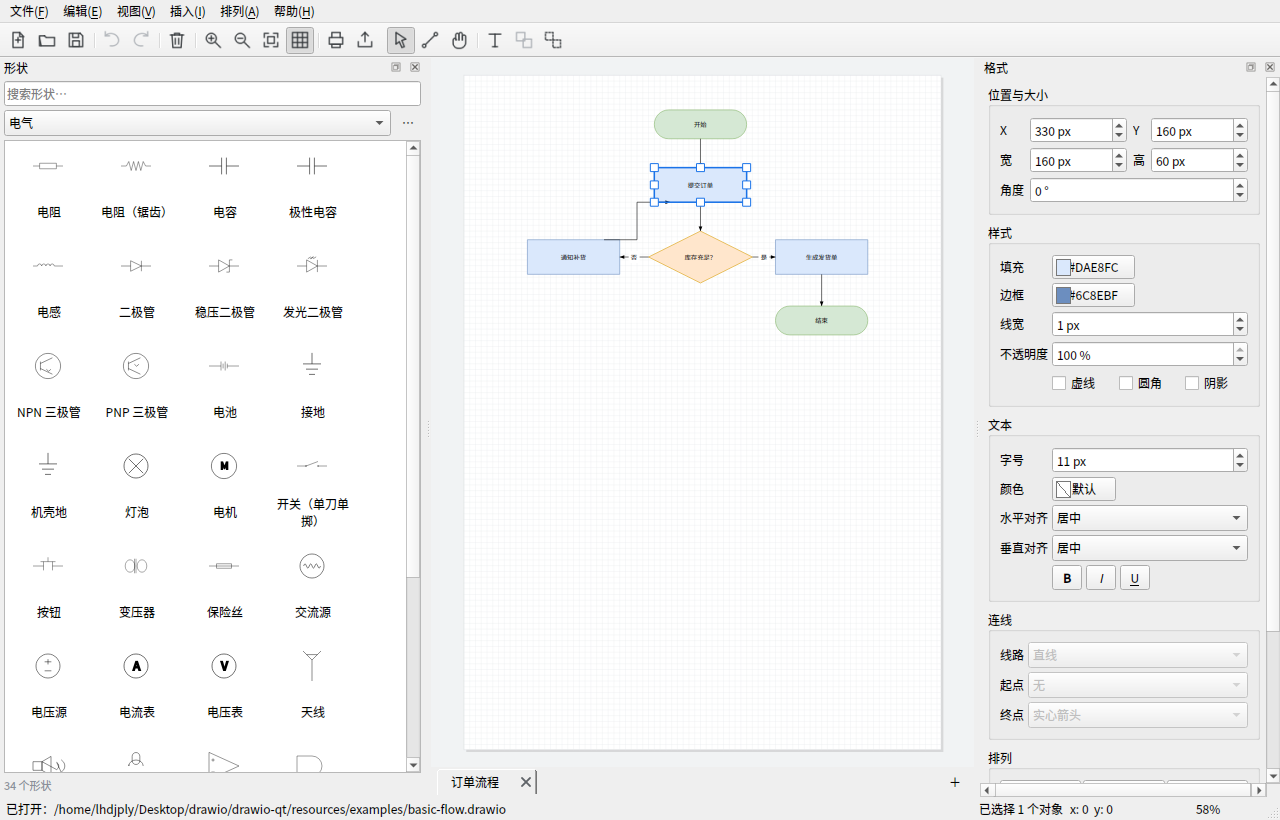
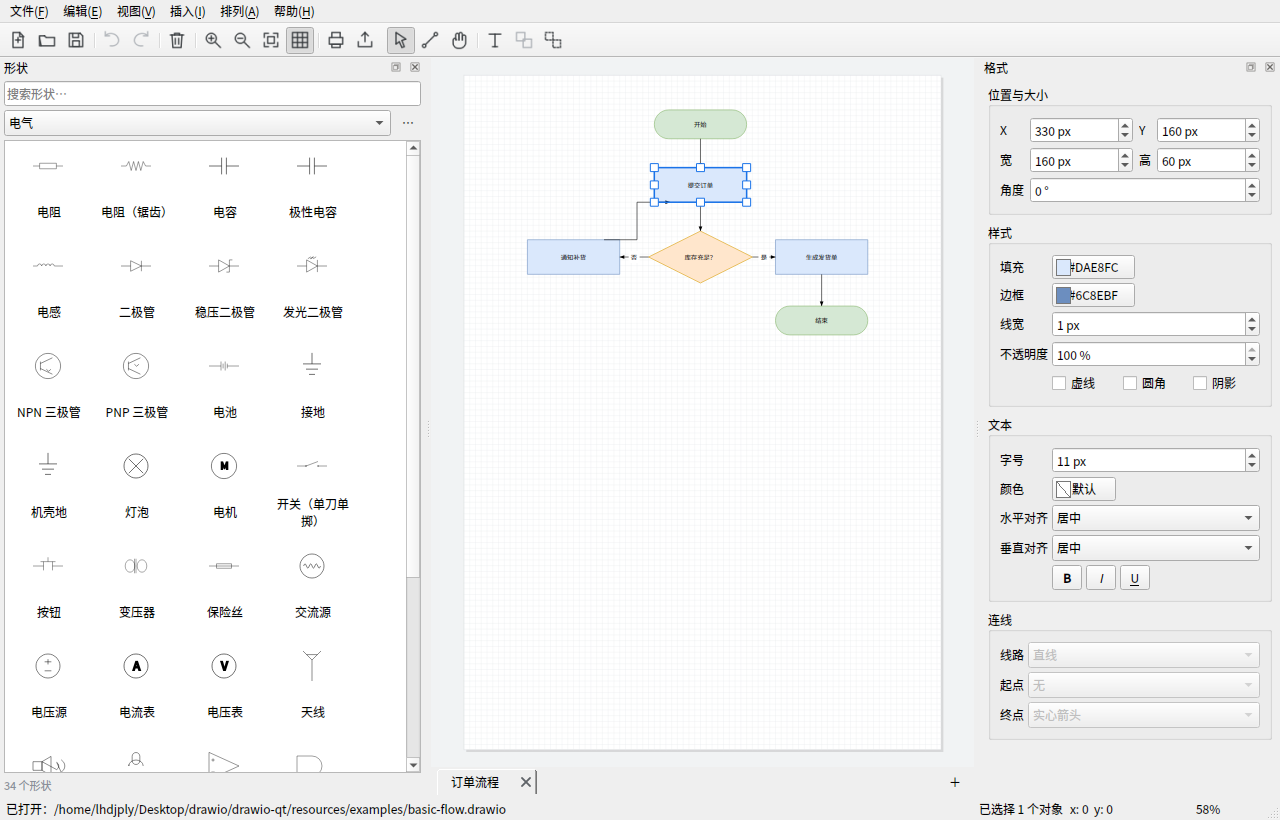
refactor: 将排列功能从右侧面板移到“排列”菜单
- 移除格式面板底部的“排列”分组（对齐、分布、同尺寸、层级、组合）
- 菜单栏“排列”新增“对齐”和“布局”子菜单：
  对齐（左/水平居中/右/上/垂直居中/下）、布局（水平/垂直分布、
  相同宽度/高度/大小），保留原有层级操作
- 选择少于两个对象时自动禁用对齐与布局菜单项
- 新增菜单结构与面板移除的 UI 测试

diff --git a/src/ui/FormatPanel.cpp b/src/ui/FormatPanel.cpp
@@ -15,7 +15,6 @@
 #include <QLabel>
 #include <QMenu>
 #include <QPainter>
-#include <QPushButton>
 #include <QScrollArea>
 #include <QSignalBlocker>
 #include <QSpinBox>
@@ -38,14 +37,6 @@ QToolButton *makeToggle(const QString &text, const QString &tooltip, QWidget *pa
     return button;
 }
 
-QPushButton *makeSmallButton(const QString &text, const QString &tooltip, QWidget *parent)
-{
-    auto *button = new QPushButton(text, parent);
-    button->setToolTip(tooltip);
-    button->setMinimumHeight(24);
-    button->setFlat(false);
-    return button;
-}
 
 } // namespace
 
@@ -490,114 +481,6 @@ void FormatPanel::buildUi()
     });
 
     // --- arrange ----------------------------------------------------------
-    auto *arrangeGroup = new QGroupBox(QStringLiteral("排列"), content);
-    arrangeGroup->setSizePolicy(QSizePolicy::Preferred, QSizePolicy::Maximum);
-    auto *arrangeLayout = new QVBoxLayout(arrangeGroup);
-    arrangeLayout->setSpacing(4);
-
-    auto *alignGrid = new QGridLayout();
-    alignGrid->setSpacing(2);
-
-    const QVector<QPair<QString, DiagramView::Align>> aligns = {
-        {QStringLiteral("左"), DiagramView::Align::Left},
-        {QStringLiteral("中"), DiagramView::Align::CenterHorizontal},
-        {QStringLiteral("右"), DiagramView::Align::Right},
-        {QStringLiteral("上"), DiagramView::Align::Top},
-        {QStringLiteral("中"), DiagramView::Align::CenterVertical},
-        {QStringLiteral("下"), DiagramView::Align::Bottom},
-    };
-
-    for (int i = 0; i < aligns.size(); ++i)
-    {
-        auto *button = makeSmallButton(aligns.at(i).first, QStringLiteral("对齐所选对象"),
-                                       arrangeGroup);
-        alignGrid->addWidget(button, i / 3, i % 3);
-        const DiagramView::Align align = aligns.at(i).second;
-        connect(button, &QPushButton::clicked, this, [this, align]()
-        {
-            m_view->alignSelection(align);
-        });
-    }
-
-    arrangeLayout->addLayout(alignGrid);
-
-    auto *distributeRow = new QHBoxLayout();
-    auto *distributeH = makeSmallButton(QStringLiteral("水平分布"), QStringLiteral("等间距分布"),
-                                        arrangeGroup);
-    auto *distributeV = makeSmallButton(QStringLiteral("垂直分布"), QStringLiteral("等间距分布"),
-                                        arrangeGroup);
-    distributeRow->addWidget(distributeH);
-    distributeRow->addWidget(distributeV);
-    arrangeLayout->addLayout(distributeRow);
-
-    connect(distributeH, &QPushButton::clicked, this, [this]()
-    {
-        m_view->distributeHorizontally();
-    });
-    connect(distributeV, &QPushButton::clicked, this, [this]()
-    {
-        m_view->distributeVertically();
-    });
-
-    auto *sizeRow = new QHBoxLayout();
-    auto *sameWidth = makeSmallButton(QStringLiteral("同宽"), QStringLiteral("统一宽度"),
-                                      arrangeGroup);
-    auto *sameHeight = makeSmallButton(QStringLiteral("同高"), QStringLiteral("统一高度"),
-                                       arrangeGroup);
-    auto *sameSize = makeSmallButton(QStringLiteral("同尺寸"), QStringLiteral("统一大小"),
-                                     arrangeGroup);
-    sizeRow->addWidget(sameWidth);
-    sizeRow->addWidget(sameHeight);
-    sizeRow->addWidget(sameSize);
-    arrangeLayout->addLayout(sizeRow);
-
-    connect(sameWidth, &QPushButton::clicked, this, [this]()
-    {
-        m_view->resizeSelection(DiagramView::SizeAction::SameWidth);
-    });
-    connect(sameHeight, &QPushButton::clicked, this, [this]()
-    {
-        m_view->resizeSelection(DiagramView::SizeAction::SameHeight);
-    });
-    connect(sameSize, &QPushButton::clicked, this, [this]()
-    {
-        m_view->resizeSelection(DiagramView::SizeAction::SameSize);
-    });
-
-    auto *zRow = new QHBoxLayout();
-    auto *front = makeSmallButton(QStringLiteral("置顶"), QStringLiteral("置于顶层"), arrangeGroup);
-    auto *back = makeSmallButton(QStringLiteral("置底"), QStringLiteral("置于底层"), arrangeGroup);
-    zRow->addWidget(front);
-    zRow->addWidget(back);
-    arrangeLayout->addLayout(zRow);
-
-    connect(front, &QPushButton::clicked, this, [this]()
-    {
-        m_view->changeZOrder(DiagramView::ZOrder::Front);
-    });
-    connect(back, &QPushButton::clicked, this, [this]()
-    {
-        m_view->changeZOrder(DiagramView::ZOrder::Back);
-    });
-
-    auto *groupRow = new QHBoxLayout();
-    m_group = makeSmallButton(QStringLiteral("组合"), QStringLiteral("组合所选对象"), arrangeGroup);
-    m_ungroup = makeSmallButton(QStringLiteral("取消组合"), QStringLiteral("解散组合"),
-                                arrangeGroup);
-    groupRow->addWidget(m_group);
-    groupRow->addWidget(m_ungroup);
-    arrangeLayout->addLayout(groupRow);
-
-    connect(m_group, &QPushButton::clicked, this, [this]()
-    {
-        m_view->groupSelection();
-    });
-    connect(m_ungroup, &QPushButton::clicked, this, [this]()
-    {
-        m_view->ungroupSelection();
-    });
-
-    layout->addWidget(arrangeGroup);
     layout->addStretch(1);
 
     // Sensible values while nothing is selected.
@@ -744,8 +627,6 @@ void FormatPanel::updateEnabled(bool hasSelection, bool hasVertex, bool hasEdge)
     m_startArrow->setEnabled(hasEdge);
     m_endArrow->setEnabled(hasEdge);
 
-    m_group->setEnabled(hasSelection);
-    m_ungroup->setEnabled(hasSelection);
 }
 
 } // namespace dq

diff --git a/src/ui/MainWindow.cpp b/src/ui/MainWindow.cpp
@@ -816,6 +816,73 @@ void MainWindow::createMenus()
 
 
     QMenu *arrangeMenu = menuBar()->addMenu(QStringLiteral("排列(&A)"));
+
+    QMenu *alignMenu = arrangeMenu->addMenu(QStringLiteral("对齐"));
+    const QVector<QPair<QString, DiagramView::Align>> alignEntries = {
+        {QStringLiteral("左对齐"), DiagramView::Align::Left},
+        {QStringLiteral("水平居中"), DiagramView::Align::CenterHorizontal},
+        {QStringLiteral("右对齐"), DiagramView::Align::Right},
+        {QStringLiteral("上对齐"), DiagramView::Align::Top},
+        {QStringLiteral("垂直居中"), DiagramView::Align::CenterVertical},
+        {QStringLiteral("下对齐"), DiagramView::Align::Bottom},
+    };
+
+    for (int i = 0; i < alignEntries.size(); ++i)
+    {
+        if (i == 3)
+        {
+            alignMenu->addSeparator();
+        }
+
+        const DiagramView::Align align = alignEntries.at(i).second;
+        QAction *action = alignMenu->addAction(alignEntries.at(i).first);
+        connect(action, &QAction::triggered, this, [this, align]()
+        {
+            m_view->alignSelection(align);
+        });
+        m_arrangeSelectionActions.append(action);
+    }
+
+    QMenu *layoutMenu = arrangeMenu->addMenu(QStringLiteral("布局"));
+
+    QAction *distributeH = layoutMenu->addAction(QStringLiteral("水平分布"));
+    connect(distributeH, &QAction::triggered, this, [this]()
+    {
+        m_view->distributeHorizontally();
+    });
+    m_arrangeSelectionActions.append(distributeH);
+
+    QAction *distributeV = layoutMenu->addAction(QStringLiteral("垂直分布"));
+    connect(distributeV, &QAction::triggered, this, [this]()
+    {
+        m_view->distributeVertically();
+    });
+    m_arrangeSelectionActions.append(distributeV);
+
+    layoutMenu->addSeparator();
+
+    QAction *sameWidth = layoutMenu->addAction(QStringLiteral("相同宽度"));
+    connect(sameWidth, &QAction::triggered, this, [this]()
+    {
+        m_view->resizeSelection(DiagramView::SizeAction::SameWidth);
+    });
+    m_arrangeSelectionActions.append(sameWidth);
+
+    QAction *sameHeight = layoutMenu->addAction(QStringLiteral("相同高度"));
+    connect(sameHeight, &QAction::triggered, this, [this]()
+    {
+        m_view->resizeSelection(DiagramView::SizeAction::SameHeight);
+    });
+    m_arrangeSelectionActions.append(sameHeight);
+
+    QAction *sameSize = layoutMenu->addAction(QStringLiteral("相同大小"));
+    connect(sameSize, &QAction::triggered, this, [this]()
+    {
+        m_view->resizeSelection(DiagramView::SizeAction::SameSize);
+    });
+    m_arrangeSelectionActions.append(sameSize);
+
+    arrangeMenu->addSeparator();
     arrangeMenu->addAction(m_frontAction);
     arrangeMenu->addAction(m_backAction);
     arrangeMenu->addAction(m_forwardAction);
@@ -961,6 +1028,11 @@ void MainWindow::updateActions()
 
     m_groupAction->setEnabled(selectedCount >= 2);
     m_ungroupAction->setEnabled(hasSelection);
+
+    for (QAction *action : m_arrangeSelectionActions)
+    {
+        action->setEnabled(selectedCount >= 2);
+    }
 
     m_connectorAction->setEnabled(selectedCount >= 2);
 }

diff --git a/tests/tst_ui_smoke.cpp b/tests/tst_ui_smoke.cpp
@@ -2,12 +2,16 @@
 #include "app/UiTheme.h"
 #include "core/Document.h"
 #include "ui/DiagramView.h"
+#include "ui/FormatPanel.h"
 #include "ui/ShapeToolbox.h"
 #include "ui/OverlayEditor.h"
 #include "ui/MainWindow.h"
 
 #include <QApplication>
 #include <QComboBox>
+#include <QGroupBox>
+#include <QMenu>
+#include <QMenuBar>
 #include <QDragEnterEvent>
 #include <QDropEvent>
 #include <QMimeData>
@@ -199,6 +203,60 @@ private slots:
         QVERIFY(cell != nullptr);
         QCOMPARE(cell->styleValue(QStringLiteral("image")),
                  QStringLiteral("img/lib/active_directory/database_cube.svg"));
+    }
+
+    void arrangeFunctionsLiveInTheMenu()
+    {
+        MainWindow window;
+        window.show();
+        (void)QTest::qWaitForWindowExposed(&window);
+
+        QMenu *arrangeMenu = nullptr;
+
+        for (QAction *action : window.menuBar()->actions())
+        {
+            if (action->text().startsWith(QStringLiteral("排列")))
+            {
+                arrangeMenu = action->menu();
+                break;
+            }
+        }
+
+        QVERIFY(arrangeMenu != nullptr);
+
+        QMenu *alignMenu = nullptr;
+        QMenu *layoutMenu = nullptr;
+
+        for (QAction *action : arrangeMenu->actions())
+        {
+            if (action->menu() == nullptr)
+            {
+                continue;
+            }
+
+            if (action->text() == QStringLiteral("对齐"))
+            {
+                alignMenu = action->menu();
+            }
+            else if (action->text() == QStringLiteral("布局"))
+            {
+                layoutMenu = action->menu();
+            }
+        }
+
+        QVERIFY(alignMenu != nullptr);
+        QVERIFY(layoutMenu != nullptr);
+        QVERIFY(alignMenu->actions().size() >= 6);
+        QVERIFY(layoutMenu->actions().size() >= 5);
+
+        // The right hand format panel no longer contains an arrange section.
+        auto *panel = window.findChild<FormatPanel *>();
+        QVERIFY(panel != nullptr);
+
+        for (QGroupBox *group : panel->findChildren<QGroupBox *>())
+        {
+            QVERIFY(group->title() != QStringLiteral("排列"));
+        }
     }
 
     void canvasSelectionAndUndo()

diff --git a/src/ui/FormatPanel.h b/src/ui/FormatPanel.h
@@ -5,7 +5,6 @@
 class QCheckBox;
 class QComboBox;
 class QDoubleSpinBox;
-class QPushButton;
 class QSpinBox;
 class QToolButton;
 
@@ -61,9 +60,6 @@ private:
     QToolButton *m_bold = nullptr;
     QToolButton *m_italic = nullptr;
     QToolButton *m_underline = nullptr;
-
-    QPushButton *m_group = nullptr;
-    QPushButton *m_ungroup = nullptr;
 
     QString m_selectedId;
 };

diff --git a/src/ui/MainWindow.h b/src/ui/MainWindow.h
@@ -134,6 +134,8 @@ private:
     QAction *m_toggleShapesAction = nullptr;
     QAction *m_toggleFormatAction = nullptr;
 
+    QVector<QAction *> m_arrangeSelectionActions;
+
     QAction *m_groupAction = nullptr;
     QAction *m_ungroupAction = nullptr;
     QAction *m_frontAction = nullptr;
